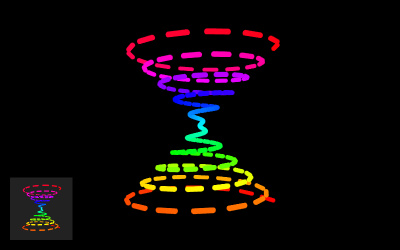
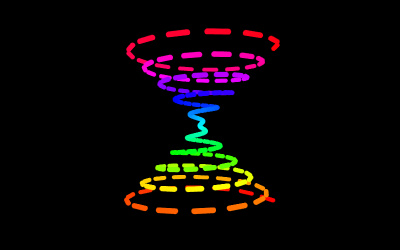
Simplified webgl_lines_fat_raycasting.html (#25191)
* Simplified example

* Clean up

Changed region(s): [[0.0, 0.7, 0.18, 0.98]]

diff --git a/examples/webgl_lines_fat_raycasting.html b/examples/webgl_lines_fat_raycasting.html
@@ -42,15 +42,13 @@
 			import { LineGeometry } from 'three/addons/lines/LineGeometry.js';
 
 			let line, thresholdLine, segments, thresholdSegments;
-			let renderer, scene, camera, camera2, controls;
+			let renderer, scene, camera, controls;
 			let sphereInter, sphereOnLine;
 			let stats, gpuPanel;
 			let gui;
 			let clock;
 
-			// viewport
-			let insetWidth;
-			let insetHeight;
+			const color = new THREE.Color();
 
 			const pointer = new THREE.Vector2( Infinity, Infinity );
 
@@ -116,14 +114,11 @@
 				camera = new THREE.PerspectiveCamera( 40, window.innerWidth / window.innerHeight, 1, 1000 );
 				camera.position.set( - 40, 0, 60 );
 
-				camera2 = new THREE.PerspectiveCamera( 40, 1, 1, 1000 );
-				camera2.position.copy( camera.position );
-
 				controls = new OrbitControls( camera, renderer.domElement );
 				controls.minDistance = 10;
 				controls.maxDistance = 500;
 
-				const sphereGeometry = new THREE.SphereGeometry( 0.25 );
+				const sphereGeometry = new THREE.SphereGeometry( 0.25, 8, 4 );
 				const sphereInterMaterial = new THREE.MeshBasicMaterial( { color: 0xff0000, depthTest: false } );
 				const sphereOnLineMaterial = new THREE.MeshBasicMaterial( { color: 0x00ff00, depthTest: false } );
 
@@ -200,6 +195,7 @@
 				geo.setAttribute( 'color', new THREE.Float32BufferAttribute( colors, 3 ) );
 
 				//
+
 				document.addEventListener( 'pointermove', onPointerMove );
 				window.addEventListener( 'resize', onWindowResize );
 				onWindowResize();
@@ -221,11 +217,9 @@
 
 				renderer.setSize( window.innerWidth, window.innerHeight );
 
-				insetWidth = window.innerHeight / 4; // square
-				insetHeight = window.innerHeight / 4;
-
-				camera2.aspect = insetWidth / insetHeight;
-				camera2.updateProjectionMatrix();
+				// renderer will set this eventually
+				matLine.resolution.set( window.innerWidth, window.innerHeight );
+				matThresholdLine.resolution.set( window.innerWidth, window.innerHeight );
 
 			}
 
@@ -242,8 +236,6 @@
 
 				stats.update();
 
-				// main scene
-
 				const delta = clock.getDelta();
 
 				const obj = line.visible ? line : segments;
@@ -254,35 +246,32 @@
 
 				if ( params.animate ) {
 
-					line.rotation.y += delta * 0.5;
-					segments.rotation.y += delta * 0.5;
+					line.rotation.y += delta * 0.1;
+
+					segments.rotation.y = line.rotation.y;
 
 				}
 
-				renderer.setClearColor( 0x000000, 0 );
-
-				renderer.setViewport( 0, 0, window.innerWidth, window.innerHeight );
-
 				raycaster.setFromCamera( pointer, camera );
 
-				// renderer will set this eventually
-				// set the new resolution before raycasting so it is set correctly
-				matLine.resolution.set( window.innerWidth, window.innerHeight ); // resolution of the viewport
-				matThresholdLine.resolution.set( window.innerWidth, window.innerHeight ); // resolution of the viewport
-
-				const intersects = raycaster.intersectObject( obj, true );
+				const intersects = raycaster.intersectObject( obj );
 
 				if ( intersects.length > 0 ) {
 
 					sphereInter.visible = true;
 					sphereOnLine.visible = true;
+
 					sphereInter.position.copy( intersects[ 0 ].point );
 					sphereOnLine.position.copy( intersects[ 0 ].pointOnLine );
-					const i = intersects[ 0 ].faceIndex;
+
+					const index = intersects[ 0 ].faceIndex;
 					const colors = obj.geometry.getAttribute( 'instanceColorStart' );
-					const color = new THREE.Color().setRGB( colors.getX( i ), colors.getY( i ), colors.getZ( i ) );
-					sphereInter.material.color.copy( color.clone().offsetHSL( 0.3, 0, 0 ) );
-					sphereOnLine.material.color.copy( color.clone().offsetHSL( 0.7, 0, 0 ) );
+
+					color.fromBufferAttribute( colors, index );
+
+					sphereInter.material.color.copy( color ).offsetHSL( 0.3, 0, 0 );
+					sphereOnLine.material.color.copy( color ).offsetHSL( 0.7, 0, 0 );
+
 					renderer.domElement.style.cursor = 'crosshair';
 
 				} else {
@@ -296,28 +285,6 @@
 				gpuPanel.startQuery();
 				renderer.render( scene, camera );
 				gpuPanel.endQuery();
-
-				// inset scene
-
-				renderer.setClearColor( 0x222222, 1 );
-
-				renderer.clearDepth(); // important!
-
-				renderer.setScissorTest( true );
-
-				renderer.setScissor( 20, 20, insetWidth, insetHeight );
-
-				renderer.setViewport( 20, 20, insetWidth, insetHeight );
-
-				camera2.position.copy( camera.position );
-				camera2.quaternion.copy( camera.quaternion );
-
-				// renderer will set this eventually
-				matLine.resolution.set( insetWidth, insetHeight ); // resolution of the inset viewport
-
-				renderer.render( scene, camera2 );
-
-				renderer.setScissorTest( false );
 
 			}
 
@@ -363,6 +330,7 @@
 
 					matLine.worldUnits = val;
 					matLine.needsUpdate = true;
+
 					matThresholdLine.worldUnits = val;
 					matThresholdLine.needsUpdate = true;
 
